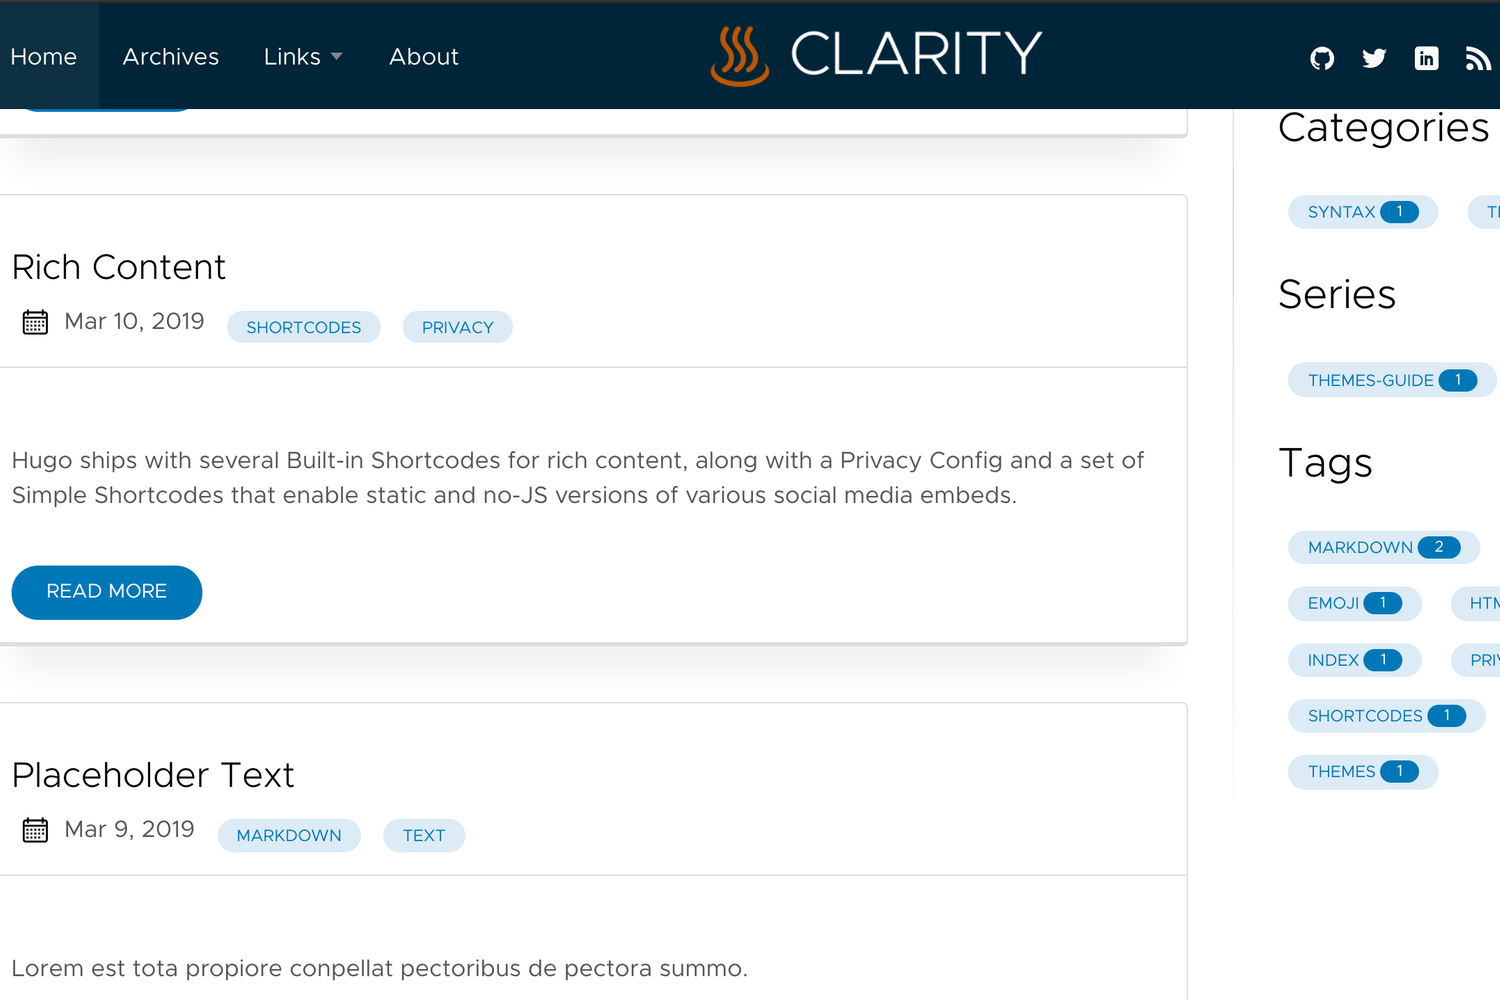
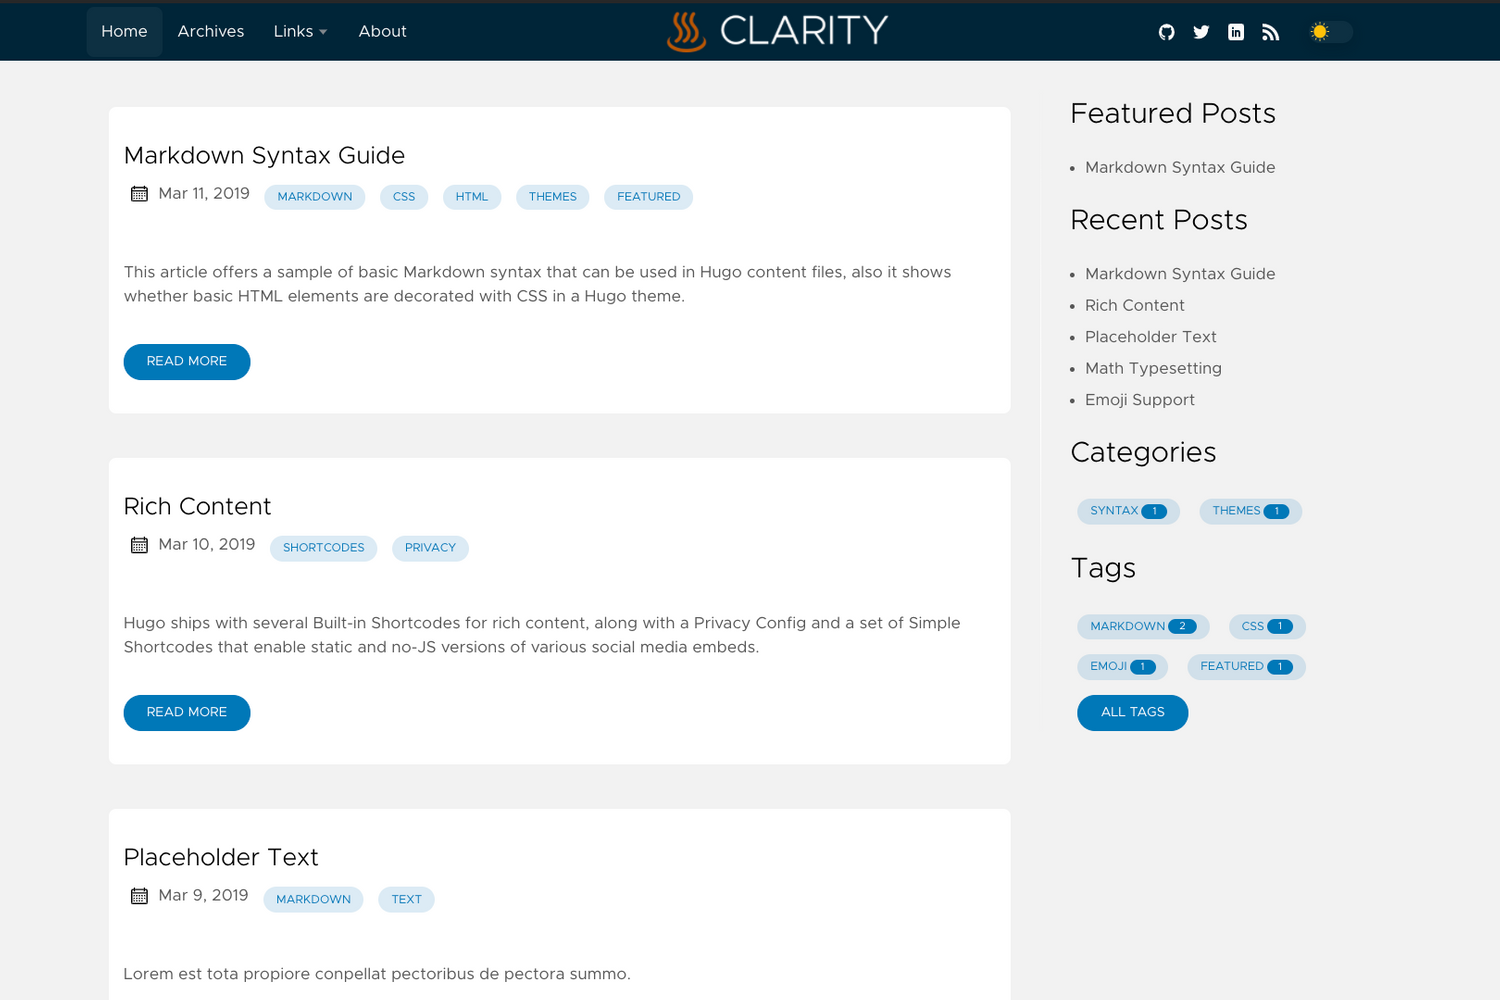
update

diff --git a/exampleSite/content/post/markdown-syntax.md b/exampleSite/content/post/markdown-syntax.md
@@ -3,11 +3,13 @@ author = "Hugo Authors"
 title = "Markdown Syntax Guide"
 date = "2019-03-11"
 description = "Sample article showcasing basic Markdown syntax and formatting for HTML elements."
+featured = true
 tags = [
     "markdown",
     "css",
     "html",
     "themes",
+    "featured"
 ]
 categories = [
     "themes",
